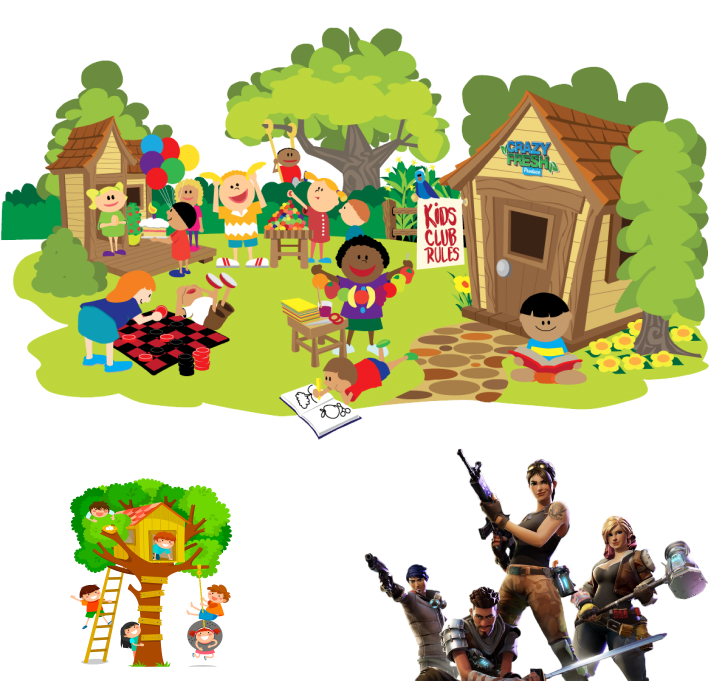
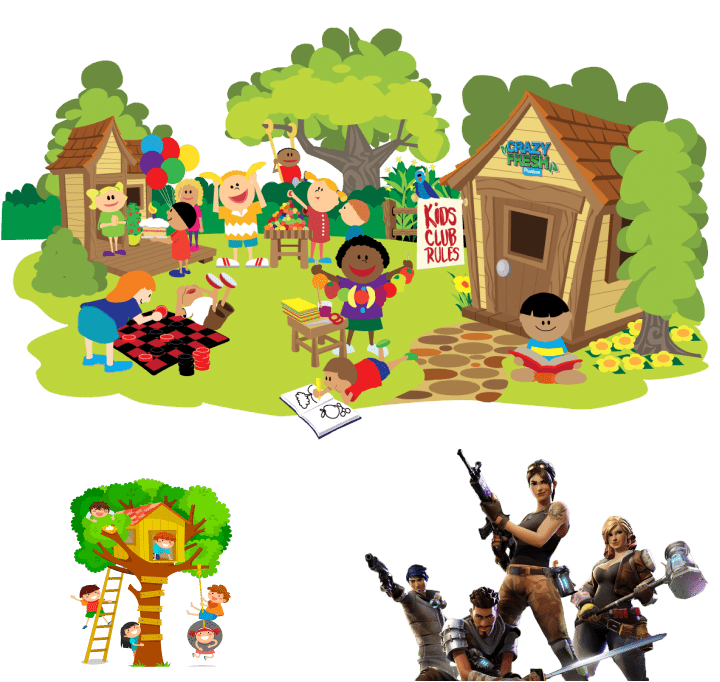
replaced image with comprased imeage

diff --git a/index.html b/index.html
@@ -3,7 +3,8 @@
   <head>
     <meta charset="UTF-8" />
     <meta name="viewport" content="width=device-width, initial-scale=1.0" />
-    <title>home</title>
+    <title>Gamer</title>
+    <link rel="icon" href="./images/Frame.png" type="image">
     <link rel="stylesheet" href="./styles/style.css" />
     <link rel="preconnect" href="https://fonts.googleapis.com" />
     <link rel="preconnect" href="https://fonts.gstatic.com" crossorigin />
